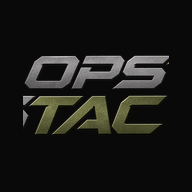
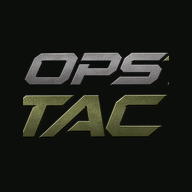
Restack OPS over TAC so the S does not sit on the bottom row

Changed region(s): [[0.0938, 0.25, 0.9062, 0.7188]]

diff --git a/app.html b/app.html
@@ -7,9 +7,9 @@
 <meta name="apple-mobile-web-app-capable" content="yes">
 <meta name="apple-mobile-web-app-status-bar-style" content="black-translucent">
 <meta name="apple-mobile-web-app-title" content="OpsTac">
-<link rel="manifest" href="manifest.json?v=3">
-<link rel="apple-touch-icon" href="apple-touch-icon.png?v=3">
-<link rel="icon" type="image/png" sizes="32x32" href="favicon-32.png?v=3">
+<link rel="manifest" href="manifest.json?v=4">
+<link rel="apple-touch-icon" href="apple-touch-icon.png?v=4">
+<link rel="icon" type="image/png" sizes="32x32" href="favicon-32.png?v=4">
 <title>OpsTac — SRT</title>
 <link rel="preconnect" href="https://fonts.googleapis.com">
 <link href="https://fonts.googleapis.com/css2?family=Rajdhani:wght@500;600;700&family=Inter:wght@400;500;600;700&family=JetBrains+Mono:wght@400;500;600&display=swap" rel="stylesheet">
